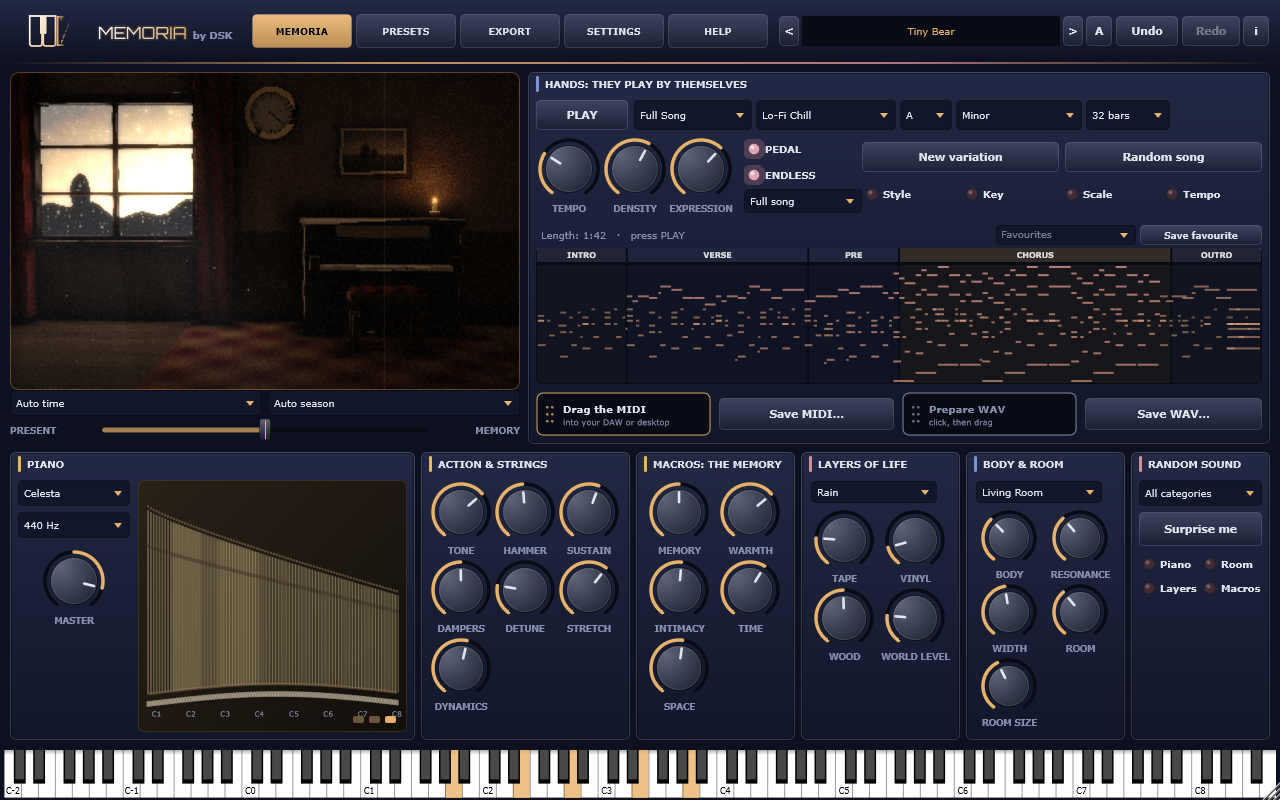
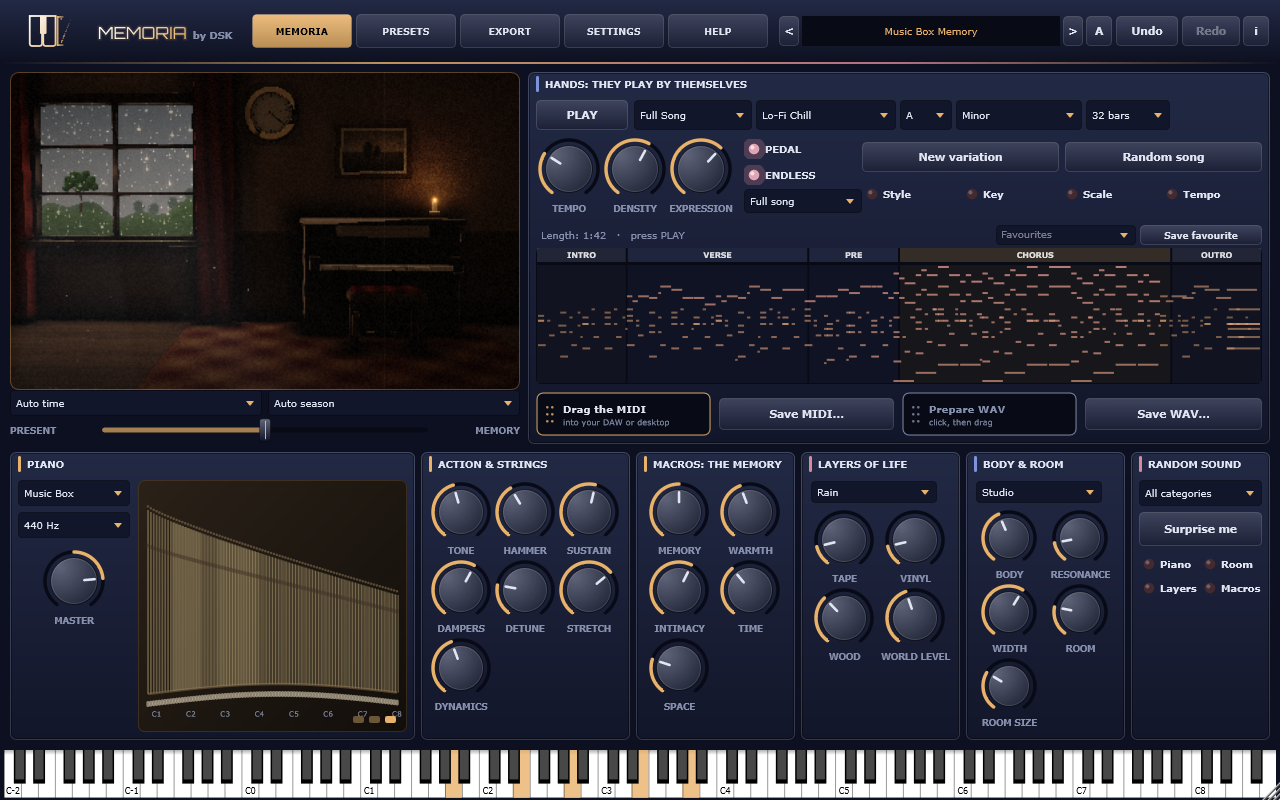
Auto season uses the new tree (no more old silhouette), no CPU flash while the shader scene starts, nicer CPU tree; teasers 1-3 [skip ci]

diff --git a/tests/Video.cpp b/tests/Video.cpp
@@ -60,7 +60,9 @@ void drawCaptions (juce::Image& img, const std::vector<Caption>& caps, double t)
 // timeline: params as a function of time
 using Setter = std::function<void (MemoriaProcessor&, double)>;
 
-int makeVideo (const juce::File& outDir, const juce::String& name, double secs, const Setter& setter, const std::vector<Caption>& caps)
+using Compose = std::function<juce::Image (MemoriaEditor&, double)>;      // builds the whole frame (the teaser shows only parts of the interface)
+
+int makeVideo (const juce::File& outDir, const juce::String& name, double secs, const Setter& setter, const std::vector<Caption>& caps, const Compose& compose = nullptr)
 {
     const auto ff = findFfmpeg();
     if (! ff.existsAsFile()) { std::puts ("ffmpeg not found"); return 1; }
@@ -96,7 +98,7 @@ int makeVideo (const juce::File& outDir, const juce::String& name, double secs, 
         }
         ed->advanceFrames (1.0 / fps);
         { auto& rs = ed->roomScene(); rs.setExternalBackground (gx::ui::OffscreenRoom::get().render (rs.uniforms(), rs.getWidth(), rs.getHeight())); }
-        auto img = ed->createComponentSnapshot (ed->getLocalBounds(), true, 1.0f).convertedToFormat (juce::Image::ARGB);
+        auto img = compose ? compose (*ed, t) : ed->createComponentSnapshot (ed->getLocalBounds(), true, 1.0f).convertedToFormat (juce::Image::ARGB);
         drawCaptions (img, caps, t);
         const auto file = tmp.getChildFile (juce::String::formatted ("%05d.png", f));
         std::unique_ptr<juce::OutputStream> os (file.createOutputStream().release());
@@ -168,6 +170,219 @@ void setHands (MemoriaProcessor& p, int style, int seed, int key, int scale, flo
     setP (p, "hands", 1.0f); setP (p, "hands_style", (float) style); setP (p, "hands_seed", (float) seed); setP (p, "hands_key", (float) key);
     setP (p, "hands_scale", (float) scale); setP (p, "hands_tempo", tempo); setP (p, "hands_form", (float) form); setP (p, "hands_bars", 1.0f);
 }
+}
+
+// A mysterious teaser: only the window in different seasons, the piano roll, the piano and a fleeting glimpse of the interface
+int runTeaser (const juce::File& dir)
+{
+    std::vector<Caption> caps {
+        { "A piano with a soul", "Un piano con alma", 7.0, 11.0 },
+        { "MEMORIA", "by DSK  ·  coming soon  ·  próximamente", 18.0, 22.0, true } };
+    Setter setter = [] (MemoriaProcessor& p, double t)
+    {
+        if (t < 0.02) applyBank (p, "Hazy Notes");
+        setHands (p, 8, 62, 0, 0, 72.0f);
+        setP (p, "world", 0.0f); setP (p, "world_level", 0.0f);
+        setP (p, "memory", 0.40f + 0.30f * ramp (t, 3.0, 18.0));
+        const float season = t < 3.6 ? 2.0f : t < 6.6 ? 3.0f : 4.0f;          // summer, autumn, then winter
+        const float tod = t < 3.6 ? 3.0f : t < 6.6 ? 4.0f : t < 14.8 ? 3.0f : 5.0f;
+        setP (p, "scene_time", tod); setP (p, "scene_season", season);
+    };
+    Compose compose = [] (MemoriaEditor& ed, double t) -> juce::Image
+    {
+        constexpr int W = 1280, H = 800;
+        juce::Image out (juce::Image::ARGB, W, H, true);
+        juce::Graphics g (out);
+        g.setImageResamplingQuality (juce::Graphics::highResamplingQuality);
+        g.fillAll (juce::Colours::black);
+        auto& rs = ed.roomScene();
+        auto put = [&] (const juce::Image& src, double nx, double ny, double nw, double nh, float darken)
+        {
+            const double sw = src.getWidth(), sh = src.getHeight();
+            g.drawImage (src, 0, 0, W, H, (int) (nx * sw), (int) (ny * sh), (int) (nw * sw), (int) (nh * sh));
+            if (darken > 0.0f) { g.setColour (juce::Colours::black.withAlpha (darken)); g.fillRect (0, 0, W, H); }
+        };
+        auto lerp = [] (double a, double b, double k) { return a + (b - a) * k; };
+        auto vignette = [&] (float a)
+        {
+            juce::ColourGradient vg (juce::Colours::transparentBlack, W * 0.5f, H * 0.5f, juce::Colours::black.withAlpha (a), 0.0f, 0.0f, true);
+            g.setGradientFill (vg); g.fillRect (0, 0, W, H);
+        };
+        float fade = 1.0f;
+        auto seg = [&] (double a, double b) { fade = (float) juce::jmin (1.0, juce::jmin ((t - a) / 0.9, (b - t) / 0.9)); return t >= a && t < b; };
+        if (seg (0.0, 7.5) || seg (15.5, 22.0))
+        {   // the window, slowly pushing in (rendered large so it stays sharp)
+            const bool end = t >= 15.5;
+            if (end) seg (15.5, 22.0); else seg (0.0, 7.5);
+            const double k = end ? (t - 15.5) / 6.5 : t / 7.5;
+            const auto hi = gx::ui::OffscreenRoom::get().render (rs.uniforms(), 2048, 1280);
+            const double w = lerp (0.46, 0.36, k), h = w, cx = 0.215, cy = 0.28;
+            if (! hi.isNull()) put (hi, cx - w * 0.5, cy - h * 0.5 * 1.0, w, h * 1.0 * (1.0), 0.0f);
+            vignette (0.55f);
+            if (end) { g.setColour (juce::Colours::black.withAlpha (juce::jlimit (0.0f, 0.5f, (float) ((t - 18.0) / 2.0 * 0.5)))); g.fillRect (0, 0, W, H); }
+        }
+        else if (seg (7.5, 12.5))
+        {   // the piano roll, close up
+            auto ui = ed.createComponentSnapshot (ed.getLocalBounds(), true, 2.0f);
+            const double k = (t - 7.5) / 5.0;
+            const double sx0 = lerp (0.42, 0.55, k), sw = lerp (0.565, 0.43, k);     // a slow push along the roll, letterboxed
+            const int bh = (int) (W * (0.175 * 800.0) / (sw * 1280.0));
+            g.drawImage (ui, 0, (H - bh) / 2, W, bh, (int) (sx0 * ui.getWidth()), (int) (0.305 * ui.getHeight()), (int) (sw * ui.getWidth()), (int) (0.175 * ui.getHeight()));
+            vignette (0.50f);
+        }
+        else if (seg (12.5, 15.5))
+        {   // the piano and its keys, with the candle
+            const double k = (t - 12.5) / 3.0;
+            const auto hi = gx::ui::OffscreenRoom::get().render (rs.uniforms(), 2048, 1280);
+            const double w = lerp (0.42, 0.34, k);
+            if (! hi.isNull()) put (hi, lerp (0.50, 0.56, k), 0.38, w, w * 0.99, 0.0f);
+            vignette (0.55f);
+        }
+        if (t >= 14.6 && t < 16.3)
+        {   // a fleeting glimpse of the enlarged interface
+            const double k = (t - 14.6) / 1.7;
+            auto ui = ed.createComponentSnapshot (ed.getLocalBounds(), true, 2.0f);
+            const double z = lerp(0.40, 0.62, k);
+            const float a = (float) (0.9 * std::sin (k * 3.14159265));
+            juce::Image layer (juce::Image::ARGB, W, H, true);
+            { juce::Graphics lg (layer); lg.setImageResamplingQuality (juce::Graphics::highResamplingQuality);
+              lg.drawImage (ui, 0, 0, W, H, (int) (ui.getWidth() * lerp (0.08, 0.20, k)), (int) (ui.getHeight() * lerp (0.50, 0.36, k)), (int) (ui.getWidth() * z), (int) (ui.getHeight() * z));
+              lg.setColour (juce::Colours::black.withAlpha (0.45f)); lg.fillRect (0, 0, W, H); }
+            g.setOpacity (a); g.drawImageAt (layer, 0, 0); g.setOpacity (1.0f);
+            fade = 1.0f;
+        }
+        g.setColour (juce::Colours::black.withAlpha (1.0f - juce::jlimit (0.0f, 1.0f, fade)));
+        g.fillRect (0, 0, W, H);
+        return out;
+    };
+    return makeVideo (dir, "Memoria-coming-soon-teaser", 22.0, setter, caps, compose);
+}
+
+// Teaser 2: details instead of the window - the clock, the candle, the strings, the keys, the knobs, the photograph
+int runTeaser2 (const juce::File& dir)
+{
+    std::vector<Caption> caps {
+        { "Every string. Every hammer.", "Cada cuerda. Cada martillo.", 7.5, 13.0 },
+        { "MEMORIA", "by DSK  ·  coming soon  ·  próximamente", 18.0, 22.0, true } };
+    Setter setter = [] (MemoriaProcessor& p, double t)
+    {
+        if (t < 0.02) applyBank (p, "Hazy Notes");
+        setHands (p, 8, 62, 0, 0, 72.0f);
+        setP (p, "world", 0.0f); setP (p, "world_level", 0.0f);
+        setP (p, "memory", 0.30f + 0.45f * ramp (t, 2.0, 17.0));
+        setP (p, "scene_season", 2.0f);
+        setP (p, "scene_time", t < 4.0f ? 1.0f : t < 13.0f ? 3.0f : t < 18.0f ? 4.0f : 5.0f);
+    };
+    Compose compose = [] (MemoriaEditor& ed, double t) -> juce::Image
+    {
+        constexpr int W = 1280, H = 800;
+        juce::Image out (juce::Image::ARGB, W, H, true);
+        juce::Graphics g (out);
+        g.setImageResamplingQuality (juce::Graphics::highResamplingQuality);
+        g.fillAll (juce::Colours::black);
+        auto& rs = ed.roomScene();
+        auto lerp = [] (double a, double b, double k) { return a + (b - a) * k; };
+        auto vignette = [&] (float a)
+        {
+            juce::ColourGradient vg (juce::Colours::transparentBlack, W * 0.5f, H * 0.5f, juce::Colours::black.withAlpha (a), 0.0f, 0.0f, true);
+            g.setGradientFill (vg); g.fillRect (0, 0, W, H);
+        };
+        float fade = 1.0f;
+        auto seg = [&] (double a, double b) { const bool in = t >= a && t < b; if (in) fade = (float) juce::jmin (1.0, juce::jmin ((t - a) / 0.8, (b - t) / 0.8)); return in; };
+        auto room = [&] (double cx, double cy, double w0, double w1, double a, double b, float dark)
+        {
+            const double k = (t - a) / (b - a), w = lerp (w0, w1, k);
+            const auto hi = gx::ui::OffscreenRoom::get().render (rs.uniforms(), 2048, 1280);
+            if (hi.isNull()) return;
+            g.drawImage (hi, 0, 0, W, H, (int) ((cx - w * 0.5) * 2048), (int) ((cy - w * 0.5) * 1280), (int) (w * 2048), (int) (w * 1280));
+            if (dark > 0) { g.setColour (juce::Colours::black.withAlpha (dark)); g.fillRect (0, 0, W, H); }
+            vignette (0.55f);
+        };
+        auto ui = [&] (double sx, double sy, double sw, double sh, double outH, double a, double b, double dx)
+        {   // a part of the real interface, centred, keeping its proportions, slowly drifting
+            const auto snap = ed.createComponentSnapshot (ed.getLocalBounds(), true, 2.0f);
+            const double k = (t - a) / (b - a);
+            const double x0 = sx + dx * k;
+            const double ow = outH * (sw * 1280.0) / (sh * 800.0);
+            const int ox = (int) ((W - juce::jmin<double> (W, ow)) * 0.5), oh = (int) outH;
+            g.drawImage (snap, ox, (H - oh) / 2, (int) juce::jmin<double> (W, ow), oh, (int) (x0 * snap.getWidth()), (int) (sy * snap.getHeight()), (int) (sw * snap.getWidth()), (int) (sh * snap.getHeight()));
+            vignette (0.40f);
+        };
+        if (seg (0.0, 4.0)) room (0.51, 0.135, 0.115, 0.085, 0.0, 4.0, 0.0f);                       // the wall clock
+        else if (seg (4.0, 7.5)) room (0.83, 0.40, 0.18, 0.13, 4.0, 7.5, 0.0f);                    // the candle
+        else if (seg (7.5, 11.5)) ui (0.105, 0.595, 0.215, 0.325, 780.0, 7.5, 11.5, 0.0);            // the 88 strings
+        else if (seg (11.5, 14.5)) ui (0.0, 0.925, 0.50, 0.075, 150.0, 11.5, 14.5, 0.45);            // the keyboard, letterboxed
+        else if (seg (14.5, 16.5)) ui (0.43, 0.595, 0.30, 0.325, 780.0, 14.5, 16.5, 0.06);           // the knobs of the memory
+        else if (seg (16.5, 18.5)) room (0.715, 0.25, 0.22, 0.17, 16.5, 18.5, 0.0f);                // a faded photograph
+        else if (seg (18.5, 22.0)) room (0.74, 0.55, 0.62, 0.74, 18.5, 22.0, 0.55f);                // the dark room, the title over it
+        g.setColour (juce::Colours::black.withAlpha (1.0f - juce::jlimit (0.0f, 1.0f, fade)));
+        g.fillRect (0, 0, W, H);
+        return out;
+    };
+    return makeVideo (dir, "Memoria-coming-soon-teaser2", 22.0, setter, caps, compose);
+}
+
+// Teaser 3: the whole window through the seasons, the piano roll, the candle, the strings, the photograph (no generic keyboard)
+int runTeaser3 (const juce::File& dir)
+{
+    std::vector<Caption> caps {
+        { "Every string. Every hammer.", "Cada cuerda. Cada martillo.", 12.5, 15.5 },
+        { "MEMORIA", "by DSK  ·  coming soon  ·  próximamente", 18.0, 22.0, true } };
+    Setter setter = [] (MemoriaProcessor& p, double t)
+    {
+        if (t < 0.02) applyBank (p, "Hazy Notes");
+        setHands (p, 8, 62, 0, 0, 72.0f);
+        setP (p, "world", 0.0f); setP (p, "world_level", 0.0f);
+        setP (p, "memory", 0.30f + 0.45f * ramp (t, 2.0, 17.0));
+        setP (p, "scene_season", t < 2.5 ? 2.0f : t < 5.0 ? 3.0f : 4.0f);      // summer, autumn, winter
+        setP (p, "scene_time", t < 2.5 ? 3.0f : t < 17.5 ? 4.0f : 5.0f);
+    };
+    Compose compose = [] (MemoriaEditor& ed, double t) -> juce::Image
+    {
+        constexpr int W = 1280, H = 800;
+        juce::Image out (juce::Image::ARGB, W, H, true);
+        juce::Graphics g (out);
+        g.setImageResamplingQuality (juce::Graphics::highResamplingQuality);
+        g.fillAll (juce::Colours::black);
+        auto& rs = ed.roomScene();
+        auto lerp = [] (double a, double b, double k) { return a + (b - a) * k; };
+        auto vignette = [&] (float a)
+        {
+            juce::ColourGradient vg (juce::Colours::transparentBlack, W * 0.5f, H * 0.5f, juce::Colours::black.withAlpha (a), 0.0f, 0.0f, true);
+            g.setGradientFill (vg); g.fillRect (0, 0, W, H);
+        };
+        float fade = 1.0f;
+        auto seg = [&] (double a, double b) { const bool in = t >= a && t < b; if (in) fade = (float) juce::jmin (1.0, juce::jmin ((t - a) / 0.8, (b - t) / 0.8)); return in; };
+        auto room = [&] (double cx, double cy, double w0, double w1, double a, double b, float dark)
+        {
+            const double k = (t - a) / (b - a), w = lerp (w0, w1, k);
+            const auto hi = gx::ui::OffscreenRoom::get().render (rs.uniforms(), 2048, 1280);
+            if (hi.isNull()) return;
+            g.drawImage (hi, 0, 0, W, H, (int) ((cx - w * 0.5) * 2048), (int) ((cy - w * 0.5) * 1280), (int) (w * 2048), (int) (w * 1280));
+            if (dark > 0) { g.setColour (juce::Colours::black.withAlpha (dark)); g.fillRect (0, 0, W, H); }
+            vignette (0.55f);
+        };
+        auto ui = [&] (double sx, double sy, double sw, double sh, double outH, double a, double b, double dx)
+        {   // a part of the real interface, centred, keeping its proportions, slowly drifting
+            const auto snap = ed.createComponentSnapshot (ed.getLocalBounds(), true, 2.0f);
+            const double k = (t - a) / (b - a);
+            const double x0 = sx + dx * k;
+            const double ow = outH * (sw * 1280.0) / (sh * 800.0);
+            const int ox = (int) ((W - juce::jmin<double> (W, ow)) * 0.5), oh = (int) outH;
+            g.drawImage (snap, ox, (H - oh) / 2, (int) juce::jmin<double> (W, ow), oh, (int) (x0 * snap.getWidth()), (int) (sy * snap.getHeight()), (int) (sw * snap.getWidth()), (int) (sh * snap.getHeight()));
+            vignette (0.40f);
+        };
+        if (seg (0.0, 6.8)) room (0.25, 0.30, 0.50, 0.56, 0.0, 6.8, 0.0f);                          // the whole window, seasons passing
+        else if (seg (6.8, 9.8)) ui (0.42, 0.305, 0.565, 0.175, 237.0, 6.8, 9.8, 0.0);               // the piano roll (letterboxed)
+        else if (seg (9.8, 12.5)) room (0.83, 0.40, 0.18, 0.13, 9.8, 12.5, 0.0f);                    // the candle
+        else if (seg (12.5, 15.5)) ui (0.105, 0.595, 0.215, 0.325, 780.0, 12.5, 15.5, 0.0);          // the 88 strings
+        else if (seg (15.5, 18.0)) room (0.715, 0.25, 0.22, 0.17, 15.5, 18.0, 0.0f);                // a faded photograph
+        else if (seg (18.0, 22.0)) room (0.25, 0.30, 0.58, 0.50, 18.0, 22.0, 0.45f);                // the window again, at night, under the title
+        g.setColour (juce::Colours::black.withAlpha (1.0f - juce::jlimit (0.0f, 1.0f, fade)));
+        g.fillRect (0, 0, W, H);
+        return out;
+    };
+    return makeVideo (dir, "Memoria-coming-soon-teaser3", 22.0, setter, caps, compose);
 }
 
 int runVideo (const juce::File& dir, bool trailer)

diff --git a/src/ui/RoomScene.cpp b/src/ui/RoomScene.cpp
@@ -83,14 +83,21 @@ void RoomScene::rebuild (int world, int tod, int season)
                     if (lk.v[kNight] > 0.5f && hash2 (std::floor (wu * 40), std::floor (wv * 40)) > 0.985f && wv < 0.6f) { sr += 0.5f; sg += 0.5f; sb += 0.6f; }
                     const float hill = 0.80f + 0.05f * std::sin (wu * 8.0f) + 0.03f * std::sin (wu * 21.0f + 1.0f);
                     const float tx = wu - 0.25f, ty = wv - 0.66f;
-                    const bool tree = (tx * tx * 6.0f + ty * ty * 2.2f < 0.03f && wv < hill) || (std::abs (tx) < 0.012f && wv > 0.66f && wv < hill + 0.03f);
+                    bool crownHit = false;
+                    {   // a crown of leafy clumps with a ragged edge, and a tapered trunk
+                        static const float cl[6][3] { { -0.095f, -0.04f, 0.060f }, { 0.0f, -0.11f, 0.070f }, { 0.095f, -0.04f, 0.060f }, { 0.0f, -0.02f, 0.065f }, { -0.045f, -0.145f, 0.045f }, { 0.055f, -0.14f, 0.045f } };
+                        const float rag = 0.012f * (hash2 (std::floor (wu * 160.0f), std::floor (wv * 160.0f)) - 0.5f) * 6.0f;
+                        for (auto& c : cl) { const float ddx = tx - c[0], ddy = ty - c[1]; if (std::sqrt (ddx * ddx + ddy * ddy * 1.15f) < c[2] + rag) crownHit = true; }
+                    }
+                    const float trunkW = lerpf (0.020f, 0.008f, juce::jlimit (0.0f, 1.0f, (0.0f - ty) / 0.18f + 0.0f));
+                    const bool tree = (crownHit && wv < hill + 0.04f) || (std::abs (tx) < trunkW && wv > 0.58f && wv < hill + 0.03f);
                     if (wv > hill || tree)
                     {
-                        if (lk.v[kSeason] < 0.5f) { sr *= 0.12f; sg *= 0.12f; sb *= 0.14f; }
+                        if (false) {}
                         else
                         {
                             const float lt = (0.25f + 0.9f * lk.v[kOutL]) * (0.8f + 0.4f * hash2 (std::floor (wu * 90.0f), std::floor (wv * 90.0f)));
-                            const bool crown = tree && wv < hill && std::abs (tx) >= 0.012f;
+                            const bool crown = crownHit && wv < hill + 0.04f;
                             const float* c3 = crown ? &lk.v[kFoR] : &lk.v[kGrR];
                             const float fa = crown ? juce::jmax (lk.v[kFoAmt], 0.25f) : 1.0f;
                             sr = lerpf (sr * 0.5f, c3[0] * lt, fa); sg = lerpf (sg * 0.5f, c3[1] * lt, fa); sb = lerpf (sb * 0.5f, c3[2] * lt, fa);
@@ -349,6 +356,7 @@ void RoomScene::paint (juce::Graphics& g)
     if (! glOk.load()) g.reduceClipRegion (clip);
     g.setImageResamplingQuality (juce::Graphics::highResamplingQuality);
     if (glOk.load()) { /* the shader draws underneath */ }
+    else if (external.isNull() && gpuWanted && gpuStatus().load() >= 0 && now0() < 8.0) { g.setColour (col::bgDeep); g.fillRect (r); }      // the shader scene is starting: no flash of the simple CPU picture
     else g.drawImage (external.isNull() ? img : external, r, juce::RectanglePlacement::fillDestination);
     g.restoreState();
     g.setColour (col::accent.withAlpha (0.35f));

diff --git a/tests/ToolMain.cpp b/tests/ToolMain.cpp
@@ -66,6 +66,9 @@ static juce::String probeLine (const gx::Engine::Probe& q)
 }
 
 int runVideo (const juce::File& dir, bool trailer);   // Video.cpp
+int runTeaser (const juce::File& dir);
+int runTeaser2 (const juce::File& dir);
+int runTeaser3 (const juce::File& dir);
 
 // MemoriaTool test | piano <dir> | screenshot <dir> [en|es]
 //   piano: renders listening / analysis material (velocity sweep, scale, chords with pedal, staccato) as 24-bit WAV files.
@@ -221,6 +224,9 @@ int main (int argc, char** argv)
         }
         return 0;
     }
+    if (cmd == "teaser3") return runTeaser3 (juce::File::getCurrentWorkingDirectory().getChildFile (argc > 2 ? argv[2] : "dist"));
+    if (cmd == "teaser2") return runTeaser2 (juce::File::getCurrentWorkingDirectory().getChildFile (argc > 2 ? argv[2] : "dist"));
+    if (cmd == "teaser") return runTeaser (juce::File::getCurrentWorkingDirectory().getChildFile (argc > 2 ? argv[2] : "dist"));
     if (cmd == "video" || cmd == "trailer") return runVideo (juce::File::getCurrentWorkingDirectory().getChildFile (argc > 2 ? argv[2] : "dist"), cmd == "trailer");
     if (cmd == "icon")
     {

diff --git a/src/ui/GpuRoom.cpp b/src/ui/GpuRoom.cpp
@@ -254,11 +254,6 @@ vec3 skyColour (vec2 w)
     vec2 t = w - vec2 (0.25, 0.34);
     float crown = length (t * vec2 (2.2, 1.0)) - 0.14;
     bool isTrunkOld = abs (t.x) < 0.012 && w.y < 0.34 && w.y > 0.12;
-    if (uSeason < 0.5)
-    {
-        if (isTrunkOld || w.y < hill || crown < 0.0) c = dark;
-        return c * 1.25;
-    }
     c *= mix (1.0, 0.60, uSeason);
     vec3 lightC = mix (vec3 (1.0), uBot * 1.25, 0.5) * (0.20 + 0.65 * uOutL);
     vec3 outc = c;
@@ -269,9 +264,9 @@ vec3 skyColour (vec2 w)
         vec2 fq = w - vec2 (fx, hillY (fx) + 0.035);
         float fcov = ss (1.0, 0.65, length (fq / vec2 (0.040, 0.052)) + 0.5 * (fbm (w * 55.0 + fk * 7.0) - 0.5)) * mix (0.30, 1.0, uFoAmt);
         vec3 fcol = mix (uFoliage * lightC * (0.55 + 0.35 * fk * 0.3), c, 0.45);
-)GLSL" R"GLSL(
         outc = mix (outc, fcol, fcov);
     }
+)GLSL" R"GLSL(
     // ground: grass (or snow) with fine streaks, hazier towards the horizon, and the soft shadow of the tree
     if (w.y < hill)
     {

diff --git a/src/ui/SceneLook.h b/src/ui/SceneLook.h
@@ -56,7 +56,8 @@ inline SceneLook lookFor (int world, int tod, int season)
         if (tod == 0) { set3 (kTopR, 0.38f, 0.52f, 0.72f); set3 (kBotR, 0.88f, 0.86f, 0.80f); set3 (kSunR, 0.95f * 0.85f, 0.90f * 0.85f, 0.80f * 0.85f); v[kSunI] = 0.55f; v[kSunPx] = 0.35f; v[kSunPy] = 0.30f; v[kAmb] = 1.0f; v[kOutL] = 0.9f; }
         v[kWind] = 1; v[kCloud] = 0.35f;
     }
-    // season (0 = auto: the dark silhouettes of the original scene)
+    // season (0 = auto = summer: the same tree and grass as every other season, never the old flat silhouettes)
+    if (season == 0) season = 2;
     if (season > 0)
     {
         v[kSeason] = 1;

diff --git a/src/ui/RoomScene.h b/src/ui/RoomScene.h
@@ -37,6 +37,8 @@ private:
     juce::SpinLock ulock;
     RoomUniforms uni;
     juce::Image external;
+    double born = juce::Time::getMillisecondCounterHiRes() * 0.001;
+    double now0() const { return juce::Time::getMillisecondCounterHiRes() * 0.001 - born; }   // seconds since the scene was created
     float hitEnv = 0, sectionEnv = 0;
     SceneLook look; bool lookInit = false;
     void rebuild (int world, int tod, int season);
